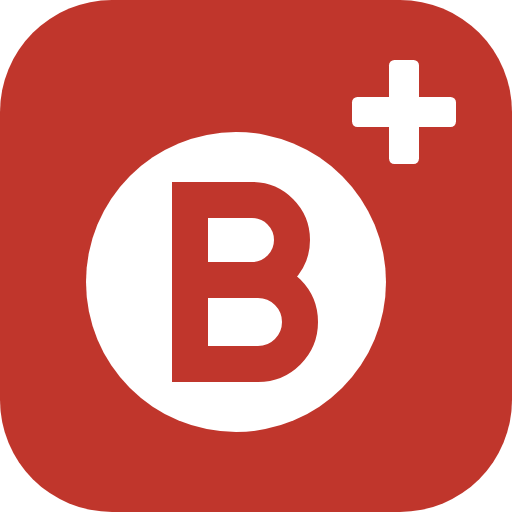
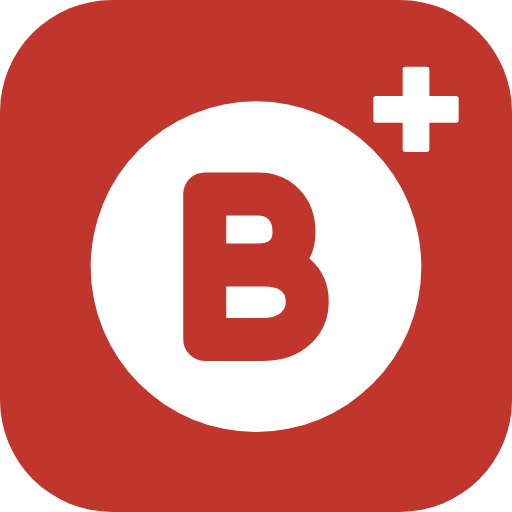
Iconos nuevos para Bilbobus+ y Dbus+, versión 48
- Bilbobus+: la B redonda del logo de Bilbobus, en rojo sobre un círculo blanco.
- Dbus+: la d de d·bus con la rana verde del logo de Dbus.
- icon.svg y glyph.svg nuevos; los PNG salen de scripts/render-icons.mjs.
- La imagen para compartir, con las doce apps, vuelta a dibujar.
- Versión 48 con su nota en castellano, euskera e inglés.

diff --git a/bideplus/js/i18n.js b/bideplus/js/i18n.js
@@ -100,6 +100,8 @@
             'bide.upcoming.planner.2': 'Coste del viaje según los transportes que elijas.',
             'bide.upcoming.planner.3': 'Seguimiento del viaje en curso: por dónde vas, cuánto falta para el transbordo y la hora de llegada, actualizados con el directo.',
             'bide.upcoming.planner.4': 'Si quieres, un aviso en el móvil un rato antes de cada transbordo. Es opcional: lo activas al planificar el viaje.',
+            'bide.changelog.48.title': 'Iconos nuevos para Bilbobus+ y Dbus+',
+            'bide.changelog.48.text': 'Bilbobus+ y Dbus+ estrenan icono, dibujado a partir de la imagen de cada servicio: la B redonda de Bilbobus y la d de Dbus con su rana verde. En el móvil, el icono de la app instalada puede tardar un poco en cambiar.',
             'bide.changelog.47.title': 'Apoya Bide+, a mano',
             'bide.changelog.47.text': '«Apoya Bide+» está ahora a mano: en el pie de todas las páginas, en la columna lateral del ordenador y en Ajustes, dentro de «La app». Todas las pantallas usan la misma letra, con la negrita de verdad, y la app pesa menos. En el ordenador, la columna lateral lleva también a Estado de las redes, y el pie enseña las apps en dos columnas.',
             'bide.changelog.46.title': 'Todos los trenes, iguales',
@@ -539,6 +541,8 @@
             'bide.upcoming.planner.2': 'Bidaiaren kostua, aukeratzen dituzun garraioen arabera.',
             'bide.upcoming.planner.3': 'Uneko bidaiaren jarraipena: non zauden, zenbat falta den aldaketarako eta iristeko ordua, zuzenekoarekin eguneratuta.',
             'bide.upcoming.planner.4': 'Nahi baduzu, abisu bat mugikorrean aldaketa bakoitza baino lehen. Aukerakoa da: bidaia planifikatzean aktibatzen da.',
+            'bide.changelog.48.title': 'Ikono berriak Bilbobus+ eta Dbus+ aplikazioentzat',
+            'bide.changelog.48.text': 'Bilbobus+ eta Dbus+ aplikazioek ikono berria dute, zerbitzu bakoitzaren irudian oinarrituta: Bilbobuseko B biribila eta Dbuseko d-a bere igel berdearekin. Mugikorrean, instalatutako aplikazioaren ikonoak denbora pixka bat behar dezake aldatzeko.',
             'bide.changelog.47.title': 'Lagundu Bide+, eskura',
             'bide.changelog.47.text': '«Lagundu Bide+» eskura dago orain: orri guztien oinean, ordenagailuko alboko zutabean eta Ezarpenetan, «Aplikazioa» atalean. Pantaila guztiek letra bera erabiltzen dute, benetako letra lodiarekin, eta aplikazioak gutxiago pisatzen du. Ordenagailuan, alboko zutabetik Sareen egoerara ere joan zaitezke, eta oinak aplikazioak bi zutabetan erakusten ditu.',
             'bide.changelog.46.title': 'Tren guztiak, berdin',
@@ -978,6 +982,8 @@
             'bide.upcoming.planner.2': 'Trip cost based on the transport you choose.',
             'bide.upcoming.planner.3': 'Live tracking of your current trip: where you are, how long until the transfer and your arrival time, updated with real-time data.',
             'bide.upcoming.planner.4': 'Optionally, a notification on your phone a little before each transfer. You turn it on when planning the trip.',
+            'bide.changelog.48.title': 'New icons for Bilbobus+ and Dbus+',
+            'bide.changelog.48.text': 'Bilbobus+ and Dbus+ have new icons, drawn from each service’s own look: the round B of Bilbobus and the d of Dbus with its green frog. On your phone, the installed app’s icon may take a little while to change.',
             'bide.changelog.47.title': 'Support Bide+, close at hand',
             'bide.changelog.47.text': '«Support Bide+» is now close at hand: in the footer of every page, in the side column on desktop and in Settings, under «The app». Every screen uses the same typeface, with real bold, and the app is lighter. On desktop, the side column also takes you to Network status, and the footer shows the apps in two columns.',
             'bide.changelog.46.title': 'All trains, alike',

diff --git a/bideplus/api/Services/Changelog.php b/bideplus/api/Services/Changelog.php
@@ -6,6 +6,7 @@ namespace Services;
 final class Changelog
 {
     public const ENTRIES = [
+        ['2026-11-05', '05/11/2026', 48, 'Iconos nuevos para Bilbobus+ y Dbus+', 'Bilbobus+ y Dbus+ estrenan icono, dibujado a partir de la imagen de cada servicio: la B redonda de Bilbobus y la d de Dbus con su rana verde. En el móvil, el icono de la app instalada puede tardar un poco en cambiar.'],
         ['2026-11-05', '05/11/2026', 47, 'Apoya Bide+, a mano', '«Apoya Bide+» está ahora a mano: en el pie de todas las páginas, en la columna lateral del ordenador y en Ajustes, dentro de «La app». Todas las pantallas usan la misma letra, con la negrita de verdad, y la app pesa menos. En el ordenador, la columna lateral lleva también a Estado de las redes, y el pie enseña las apps en dos columnas.'],
         ['2026-11-05', '05/11/2026', 46, 'Todos los trenes, iguales', 'Metro, Euskotren, Renfe y los tranvías enseñan cada estación igual: el nombre arriba, un botón por cada línea que para y un bloque por sentido con el próximo tren en grande. En Renfe, cada bloque es una línea con su destino («C1 → Santurtzi»). Todas las apps usan ya el mismo tamaño de letra, y un tren cancelado nunca sale como el próximo. En iPhone, Ajustes y una pregunta nueva de Info explican por qué el móvil pide la ubicación cada vez que usas «Cerca de mí».'],
         ['2026-11-04', '04/11/2026', 45, 'Estado de las redes', 'Una página nueva, Estado de las redes, enseña cuántos autobuses, trenes y tranvías van en directo ahora en cada red, sus avisos y cuánto acierta Bide+ frente al horario; está en el inicio, junto al mapa. Cada parada enseña arriba las incidencias que le afectan. Metro, Renfe y los tranvías enseñan su directo tal como lo publica cada operador, y Euskotren sale con su horario, porque lo que publica como directo es su propio horario. Álavabus calcula el retraso con el GPS de cada autobús cuando las horas que publica no cuadran. En Bizkaibus, un autobús que falta un momento en los datos sigue en directo. Y en el ordenador, la columna lateral enseña cuatro favoritos y el resto desplazando.'],
